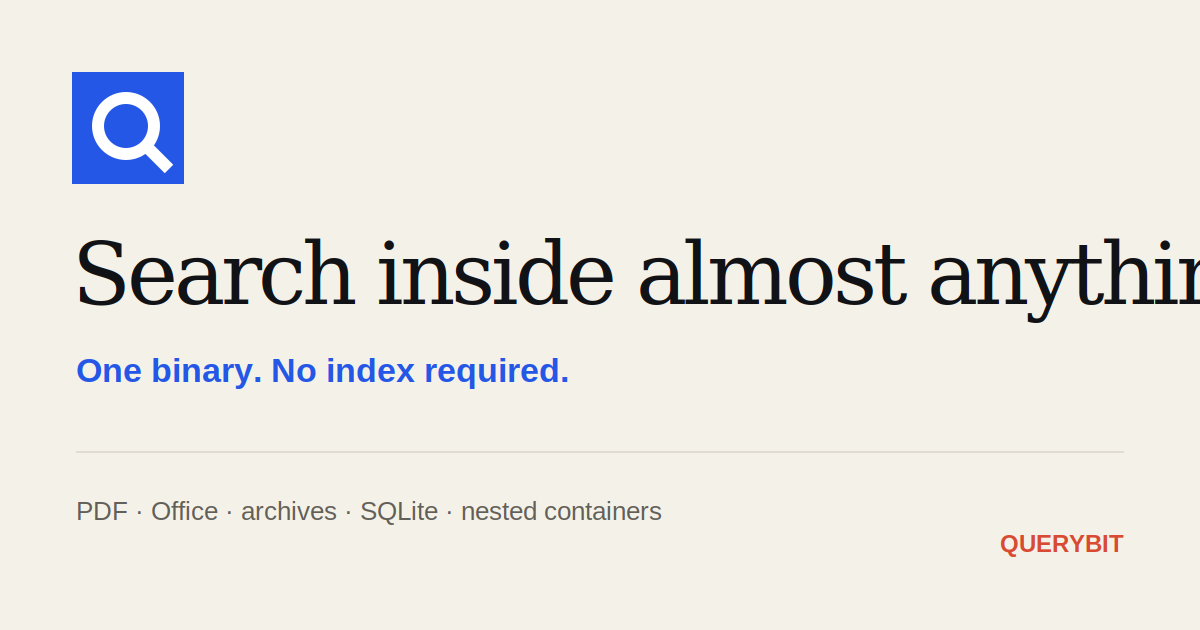
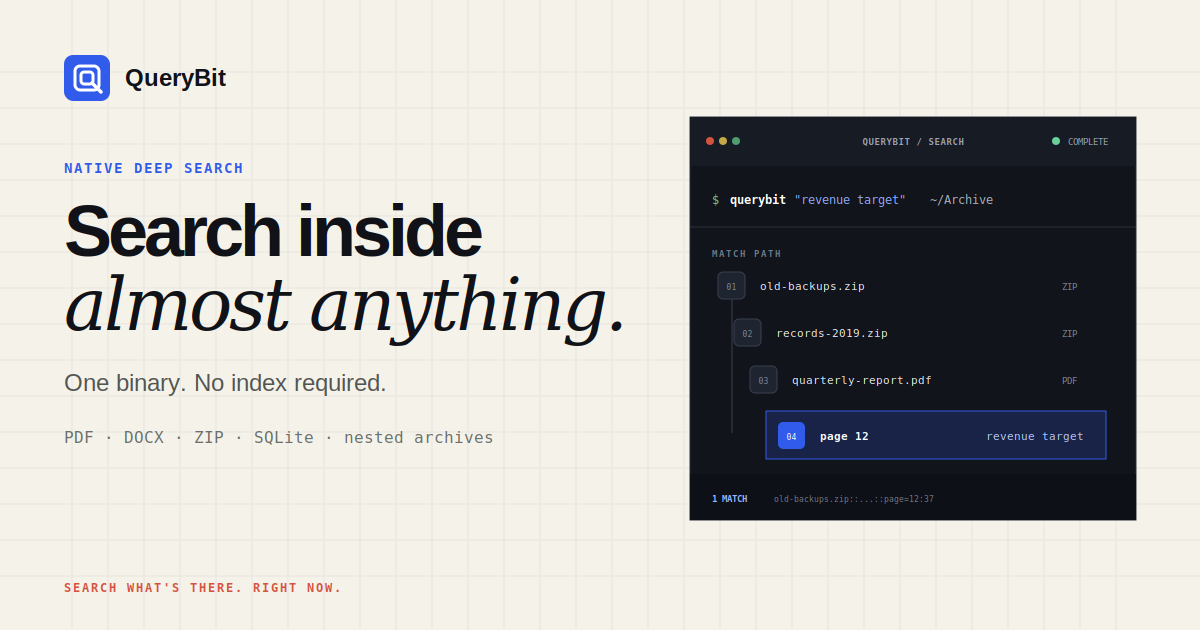
Polish QueryBit launch site

diff --git a/docs/style.css b/docs/style.css
@@ -1,1 +1,1 @@
-:root{color-scheme:light;--paper:#f4f1e8;--ink:#111216;--muted:#625f58;--line:#cec8ba;--blue:#2457e6;--blue2:#173ca6;--red:#d84a31;--white:#fffefa;--max:1180px}*{box-sizing:border-box}html{scroll-behavior:smooth}body{margin:0;background:var(--paper);color:var(--ink);font-family:Inter,ui-sans-serif,-apple-system,BlinkMacSystemFont,"Segoe UI",sans-serif;-webkit-font-smoothing:antialiased}a{color:inherit}.wrap{width:min(calc(100% - 40px),var(--max));margin:auto}header{position:sticky;top:0;z-index:10;border-bottom:1px solid var(--line);background:rgba(244,241,232,.93);backdrop-filter:blur(12px)}nav{min-height:72px;display:flex;align-items:center;justify-content:space-between;gap:24px}.brand{display:flex;align-items:center;gap:12px;text-decoration:none;font-weight:800;letter-spacing:-.02em}.mark{width:34px;height:34px}.links{display:flex;gap:24px;align-items:center;font-size:14px;font-weight:700}.links a{text-decoration:none}.links a:hover{color:var(--blue)}.hero{padding:clamp(70px,10vw,132px) 0 clamp(64px,8vw,108px);border-bottom:1px solid var(--line);overflow:hidden}.hero-grid{display:grid;grid-template-columns:minmax(0,1.05fr) minmax(420px,.95fr);gap:clamp(48px,7vw,92px);align-items:center}.eyebrow,.section-no,.card-label{text-transform:uppercase;letter-spacing:.13em;font-weight:850;font-size:12px}.eyebrow{color:var(--blue);margin-bottom:24px}h1,h2,h3{margin:0}h1{font:500 clamp(54px,7vw,102px)/.93 Georgia,"Times New Roman",serif;letter-spacing:-.055em;max-width:780px}.hero p{max-width:660px;margin:30px 0 0;font-size:clamp(19px,2vw,24px);line-height:1.5;color:#403e39}.actions{display:flex;flex-wrap:wrap;gap:12px;margin-top:34px}.button{display:inline-flex;align-items:center;justify-content:center;min-height:48px;padding:0 20px;border:1px solid var(--ink);text-decoration:none;font-weight:780;font-size:15px;transition:.15s ease}.button.primary{background:var(--blue);border-color:var(--blue);color:white}.button:hover{transform:translateY(-2px)}.button.secondary:hover{background:var(--ink);color:white}.search-card{position:relative;background:var(--white);border:1px solid #bbb5a8;box-shadow:0 28px 70px rgba(30,33,42,.1);padding:clamp(24px,4vw,42px);transform:rotate(1.1deg)}.search-card:before{content:"";position:absolute;inset:10px -12px -12px 12px;border:1px solid var(--blue);z-index:-1}.card-label{color:var(--red);margin-bottom:24px}.path-stack{display:grid;gap:2px;font:500 clamp(13px,1.4vw,16px)/1.4 ui-monospace,SFMono-Regular,Menlo,Consolas,monospace}.path{border-left:2px solid var(--line);padding:10px 0 10px 17px}.path:nth-child(2){margin-left:22px}.path:nth-child(3){margin-left:44px}.path:nth-child(4){margin-left:66px;border-left-color:var(--blue);color:var(--blue2);font-weight:800}.result{margin-top:26px;padding-top:22px;border-top:1px solid var(--line);font:500 12px/1.65 ui-monospace,SFMono-Regular,Menlo,Consolas,monospace;overflow-wrap:anywhere;color:#4e4c47}.result strong{color:var(--ink)}section{padding:clamp(72px,9vw,120px) 0;border-bottom:1px solid var(--line)}.section-head{display:grid;grid-template-columns:.42fr 1fr;gap:40px;margin-bottom:56px}.section-no{color:var(--red);font-family:ui-monospace,SFMono-Regular,monospace}h2{font:500 clamp(36px,4.4vw,64px)/1 Georgia,"Times New Roman",serif;letter-spacing:-.035em;max-width:760px}.intro{margin:20px 0 0;color:var(--muted);max-width:700px;font-size:18px;line-height:1.7}.three{display:grid;grid-template-columns:repeat(3,1fr);border-top:1px solid var(--ink);border-bottom:1px solid var(--ink)}.feature{padding:32px 30px 38px 0}.feature+.feature{border-left:1px solid var(--line);padding-left:30px}.feature h3{font-size:17px;margin-bottom:12px}.feature p{margin:0;color:var(--muted);line-height:1.65;font-size:15px}.num{color:var(--blue);font:800 12px/1 ui-monospace,SFMono-Regular,monospace;margin-bottom:44px}.formats{display:flex;flex-wrap:wrap;gap:8px}.format{border:1px solid var(--line);background:rgba(255,255,255,.34);padding:12px 15px;font:700 13px/1 ui-monospace,SFMono-Regular,monospace}.format.em{border-color:var(--blue);color:var(--blue2);background:#eef2ff}.why{display:grid;grid-template-columns:.72fr 1.28fr;gap:clamp(46px,8vw,112px);align-items:start}.why-callout{font:500 clamp(28px,3.5vw,48px)/1.15 Georgia,"Times New Roman",serif;letter-spacing:-.03em}.why-copy{font-size:17px;line-height:1.78;color:#3f3d39}.why-copy p{margin:0 0 22px}.why-copy strong{color:var(--ink)}.install{display:grid;grid-template-columns:.75fr 1.25fr;gap:32px;background:var(--blue);color:white;padding:clamp(32px,6vw,68px)}.install>*{min-width:0}.install h2{color:white}.install p{margin:18px 0 0;color:#dfe6ff;line-height:1.65}.install-side{align-self:end}.cmd{background:white;color:var(--ink);padding:18px 20px;font:650 13px/1.5 ui-monospace,SFMono-Regular,Menlo,Consolas,monospace;overflow:auto;white-space:nowrap;margin-bottom:12px}.install .button{border-color:white;color:white;margin-top:10px}.install .button:hover{background:white;color:var(--blue)}.fine{font-size:13px!important}footer{padding:34px 0 54px}.footer{display:flex;justify-content:space-between;gap:24px;color:var(--muted);font-size:13px}.footer a{text-underline-offset:3px}@media(max-width:900px){.hero-grid,.section-head,.why,.install{grid-template-columns:1fr}.hero-grid{gap:58px}.search-card{transform:none;max-width:650px}.three{grid-template-columns:1fr}.feature{padding:28px 0}.feature+.feature{border-left:0;border-top:1px solid var(--line);padding-left:0}.num{margin-bottom:20px}}@media(max-width:620px){.wrap{width:min(calc(100% - 28px),var(--max))}nav{min-height:62px}.links a:not(.download){display:none}.hero{padding-top:64px}h1{font-size:clamp(50px,16vw,74px)}.search-card:before{display:none}.path:nth-child(2){margin-left:12px}.path:nth-child(3){margin-left:24px}.path:nth-child(4){margin-left:36px}.cmd{white-space:normal;overflow-wrap:anywhere}.footer{flex-direction:column}}@media(prefers-reduced-motion:reduce){html{scroll-behavior:auto}.button{transition:none}}
+:root{color-scheme:light;--paper:#f5f2ea;--paper2:#ebe6da;--ink:#101217;--muted:#5e615f;--line:#d1ccbf;--line2:#b9b3a6;--blue:#315bea;--blue2:#173aa4;--red:#d4533f;--white:#fffef9;--nav:#f7f4ed;--max:1220px;--sans:Inter,ui-sans-serif,-apple-system,BlinkMacSystemFont,"Segoe UI",sans-serif;--mono:"SFMono-Regular",Consolas,"Liberation Mono",Menlo,monospace}*{box-sizing:border-box}html{scroll-behavior:smooth}body{margin:0;background:var(--paper);color:var(--ink);font-family:var(--sans);-webkit-font-smoothing:antialiased;text-rendering:optimizeLegibility}a{color:inherit}.wrap{width:min(calc(100% - 48px),var(--max));margin:auto}header{position:sticky;top:0;z-index:20;background:rgba(247,244,237,.92);backdrop-filter:blur(18px);border-bottom:1px solid rgba(16,18,23,.11)}nav{height:72px;display:flex;align-items:center;justify-content:space-between;gap:28px}.brand{display:flex;align-items:center;gap:11px;text-decoration:none;font-weight:790;font-size:15px;letter-spacing:-.025em}.mark{width:32px;height:32px;color:var(--blue);filter:drop-shadow(0 5px 10px rgba(49,91,234,.12))}.links{display:flex;align-items:center;gap:28px;font-size:13px;font-weight:680}.links a{text-decoration:none;position:relative}.links a:not(.download):after{content:"";position:absolute;left:0;right:100%;bottom:-5px;height:1px;background:var(--ink);transition:right .18s ease}.links a:not(.download):hover:after{right:0}.links .download{display:inline-flex;align-items:center;gap:7px;border:1px solid var(--ink);padding:10px 13px}.links .download span{font-size:11px;transition:transform .18s ease}.links .download:hover span{transform:translate(2px,-2px)}.hero{position:relative;padding:clamp(86px,10vw,140px) 0 clamp(88px,10vw,132px);overflow:hidden;border-bottom:1px solid var(--line)}.hero:before{content:"";position:absolute;inset:0;background:linear-gradient(rgba(16,18,23,.026) 1px,transparent 1px),linear-gradient(90deg,rgba(16,18,23,.026) 1px,transparent 1px);background-size:36px 36px;mask-image:linear-gradient(to right,transparent 0,#000 45%,#000 100%);pointer-events:none}.hero-grid{position:relative;display:grid;grid-template-columns:minmax(0,.92fr) minmax(520px,1.08fr);gap:clamp(54px,7vw,96px);align-items:center}.eyebrow,.section-no,.trace-label{font:780 11px/1 var(--mono);text-transform:uppercase;letter-spacing:.15em}.eyebrow{display:flex;align-items:center;gap:10px;color:var(--blue);margin-bottom:26px}.eyebrow>span{display:block;width:22px;height:2px;background:var(--blue)}h1,h2,h3,p{margin-top:0}h1{margin-bottom:0;font-size:clamp(58px,6.6vw,94px);line-height:.93;letter-spacing:-.072em;font-weight:760;max-width:680px}h1 em{font-family:"Iowan Old Style","Palatino Linotype",Palatino,"Book Antiqua",Georgia,serif;font-weight:500;font-style:italic;letter-spacing:-.055em}.hero-copy>p{max-width:620px;margin:28px 0 0;color:#464947;font-size:clamp(18px,1.7vw,22px);line-height:1.55;letter-spacing:-.018em}.actions{display:flex;gap:10px;flex-wrap:wrap;margin-top:34px}.button{min-height:48px;padding:0 18px;display:inline-flex;align-items:center;justify-content:center;gap:12px;border:1px solid var(--ink);text-decoration:none;font-size:14px;font-weight:740;letter-spacing:-.01em;transition:transform .16s ease,box-shadow .16s ease,background .16s ease,color .16s ease}.button>span{font-size:12px}.button.primary{background:var(--ink);color:white;box-shadow:0 10px 22px rgba(16,18,23,.1)}.button.primary:hover{transform:translateY(-2px);box-shadow:0 14px 30px rgba(16,18,23,.16)}.button.secondary{background:rgba(255,255,255,.26)}.button.secondary:hover{background:white}.hero-proof{display:flex;gap:14px;flex-wrap:wrap;margin-top:32px;color:#73756f;font:650 10px/1 var(--mono);text-transform:uppercase;letter-spacing:.08em}.hero-proof span{position:relative}.hero-proof span+span:before{content:"·";margin-right:14px;color:#a5a094}.instrument{position:relative;background:#11141b;color:#f6f5f1;border:1px solid #2a2f3a;box-shadow:0 36px 80px rgba(20,24,35,.18),0 2px 0 rgba(255,255,255,.15) inset;overflow:hidden}.instrument:before{content:"";position:absolute;inset:0;background:radial-gradient(circle at 76% 14%,rgba(49,91,234,.20),transparent 31%);pointer-events:none}.instrument-top{position:relative;height:50px;padding:0 18px;display:grid;grid-template-columns:1fr auto 1fr;align-items:center;border-bottom:1px solid #2e3340;background:#171b23}.dots{display:flex;gap:7px}.dots i{width:7px;height:7px;border-radius:50%;background:#4c5361}.dots i:first-child{background:#d4533f}.dots i:nth-child(2){background:#c3a846}.dots i:nth-child(3){background:#4e9c70}.instrument-title{font:620 10px/1 var(--mono);letter-spacing:.08em;color:#9ba3b2;text-transform:uppercase}.status{justify-self:end;display:flex;align-items:center;gap:7px;font:640 10px/1 var(--mono);text-transform:uppercase;letter-spacing:.06em;color:#9ba3b2}.status b{width:7px;height:7px;border-radius:50%;background:#6bd19b;box-shadow:0 0 0 4px rgba(107,209,155,.08)}.command{position:relative;padding:24px 24px 22px;font:500 13px/1.5 var(--mono);color:#aab1bf;border-bottom:1px solid #2b303b;overflow-wrap:anywhere}.command .prompt{color:#6bd19b;margin-right:9px}.command span:nth-child(2){color:#fff;font-weight:700}.command strong{color:#8fabff;font-weight:650}.trace-label{position:relative;color:#6f7888;padding:20px 24px 10px}.trace{position:relative;padding:0 24px 26px}.trace:before{content:"";position:absolute;left:38px;top:18px;bottom:42px;width:1px;background:linear-gradient(#3a4250,#315bea)}.trace-line{position:relative;display:grid;grid-template-columns:36px minmax(0,1fr) auto;gap:12px;align-items:center;min-height:52px;padding:0 14px 0 0;border-bottom:1px solid rgba(255,255,255,.06);font:560 12px/1.3 var(--mono);opacity:0;transform:translateY(5px);animation:trace-in .35s forwards}.trace-line:nth-child(1){animation-delay:.15s}.trace-line:nth-child(2){animation-delay:.28s}.trace-line:nth-child(3){animation-delay:.41s}.trace-line:nth-child(4){animation-delay:.54s}.trace-line .node{position:relative;z-index:2;display:grid;place-items:center;width:28px;height:28px;border-radius:6px;background:#1e2430;border:1px solid #39404d;color:#7f8999;font-size:9px}.trace-line.two{padding-left:16px}.trace-line.three{padding-left:32px}.trace-line.hit{padding-left:48px;border:1px solid rgba(79,118,255,.55);background:linear-gradient(90deg,rgba(49,91,234,.18),rgba(49,91,234,.04));margin-top:9px;min-height:58px}.trace-line.hit .node{background:var(--blue);border-color:#6f90ff;color:white}.trace-line .file{color:#e7e9ee;overflow:hidden;text-overflow:ellipsis;white-space:nowrap}.trace-line .type{color:#7d8695;font-size:9px;border:1px solid #3a414d;padding:5px 6px}.trace-line .match{color:#b9c9ff;font-weight:700;font-size:11px}.result-strip{position:relative;display:grid;grid-template-columns:auto 1fr;gap:14px;align-items:center;background:#0d1016;border-top:1px solid #2b303b;padding:15px 24px;font:500 9.5px/1.45 var(--mono);color:#687181}.result-strip span{color:#9fb4ff;text-transform:uppercase;letter-spacing:.08em}.result-strip code{overflow:hidden;text-overflow:ellipsis;white-space:nowrap;color:#7e8795}@keyframes trace-in{to{opacity:1;transform:none}}section:not(.hero){padding:clamp(86px,9vw,124px) 0;border-bottom:1px solid var(--line)}.section-head{display:grid;grid-template-columns:.38fr 1fr;gap:56px;margin-bottom:60px}.section-head.compact{margin-bottom:46px}.section-no{color:var(--red);padding-top:8px}.section-no span{color:#aaa59a}.section-head h2,.install h2{font-size:clamp(42px,4.7vw,66px);line-height:.98;letter-spacing:-.055em;margin-bottom:0;font-weight:700;max-width:790px}.intro{margin:23px 0 0;color:var(--muted);max-width:700px;font-size:17px;line-height:1.72;letter-spacing:-.012em}.three{display:grid;grid-template-columns:repeat(3,1fr);border-top:1px solid var(--ink)}.feature{display:grid;grid-template-columns:44px 1fr;gap:15px;padding:28px 28px 4px 0;min-height:178px}.feature+.feature{border-left:1px solid var(--line);padding-left:28px}.num{font:740 10px/1 var(--mono);color:var(--blue);padding-top:4px}.feature h3{margin-bottom:10px;font-size:16px;letter-spacing:-.018em}.feature p{margin-bottom:0;color:var(--muted);font-size:14px;line-height:1.65}.formats-section{background:#f0ece2}.format-board{border:1px solid var(--line2);background:rgba(255,255,255,.34);box-shadow:0 18px 46px rgba(24,27,35,.04)}.format-major,.format-minor{display:flex;flex-wrap:wrap}.format-major{border-bottom:1px solid var(--line2)}.format-major span{flex:1 1 16.66%;min-width:130px;padding:25px 18px;border-right:1px solid var(--line);font:760 15px/1 var(--mono);color:var(--blue2);background:rgba(255,255,255,.35);text-align:center}.format-major span:last-child{border-right:0}.format-minor{gap:0}.format-minor span{padding:16px 17px;border-right:1px solid var(--line);border-bottom:1px solid var(--line);font:650 11px/1 var(--mono);color:#4f524f}.origin-section{position:relative;overflow:hidden}.origin-section:after{content:"";position:absolute;width:520px;height:520px;border:1px solid rgba(49,91,234,.13);border-radius:50%;left:-330px;bottom:-250px;box-shadow:0 0 0 56px rgba(49,91,234,.025),0 0 0 112px rgba(49,91,234,.018);pointer-events:none}.why{display:grid;grid-template-columns:.82fr 1.18fr;gap:clamp(60px,9vw,120px);align-items:start}.origin-lead{position:sticky;top:112px}.why-callout{margin-top:32px;font-size:clamp(36px,4.2vw,60px);line-height:1.02;letter-spacing:-.055em;font-weight:710;max-width:470px}.why-callout em{font-family:"Iowan Old Style","Palatino Linotype",Palatino,Georgia,serif;font-weight:500;color:var(--blue);font-style:italic}.why-copy{font-size:16px;line-height:1.8;color:#444744}.why-copy p{margin:0 0 24px}.why-copy code{font:650 .9em var(--mono);background:var(--paper2);padding:2px 5px}.why-copy .pull{margin:36px 0;padding:24px 0 24px 24px;border-left:3px solid var(--blue);font-size:18px;line-height:1.6;color:var(--ink)}.get-section{background:var(--paper)}.install{position:relative;overflow:hidden;display:grid;grid-template-columns:.9fr 1.1fr;gap:clamp(40px,6vw,80px);background:#182044;color:white;padding:clamp(42px,6vw,74px);box-shadow:0 26px 70px rgba(17,24,53,.14)}.install:before{content:"";position:absolute;inset:0;background:linear-gradient(rgba(255,255,255,.035) 1px,transparent 1px),linear-gradient(90deg,rgba(255,255,255,.035) 1px,transparent 1px);background-size:28px 28px;mask-image:linear-gradient(to right,transparent,#000)}.install>*{position:relative;min-width:0}.install .section-no{color:#9fb4ff;padding-top:0;margin-bottom:26px}.install .section-no span{color:#6475bd}.install h2{color:white;max-width:520px}.install-copy p{margin:21px 0 0;color:#bdc5df;max-width:470px;line-height:1.65;font-size:15px}.install-side{align-self:end}.cmd{display:grid;grid-template-columns:18px 1fr;gap:10px;align-items:center;background:#11162f;border:1px solid #303a69;color:white;padding:16px 18px;margin-bottom:10px;font:600 12px/1.45 var(--mono)}.cmd span{color:#6bd19b}.cmd code{overflow-wrap:anywhere}.button.light{margin-top:10px;border-color:#8197f1;color:white;background:var(--blue)}.button.light:hover{transform:translateY(-2px);box-shadow:0 12px 28px rgba(0,0,0,.16)}.fine{font-size:12px!important;color:#8f99bd!important;margin-top:14px!important}footer{padding:34px 0 46px;background:#efebe1}.footer{display:flex;justify-content:space-between;align-items:center;gap:24px;color:#656862;font-size:12px}.footer-brand{display:flex;align-items:center;gap:9px;font-weight:750;color:var(--ink)}.footer-brand span{font-weight:500;color:#777a73}.mini-mark{width:19px;height:19px;color:var(--blue)}.footer>div:last-child{display:flex;gap:18px}.footer a{text-underline-offset:4px;text-decoration-color:#aaa79e}.footer a:hover{text-decoration-color:var(--ink)}@media(max-width:980px){.hero-grid{grid-template-columns:1fr;gap:62px}.hero-copy{max-width:760px}.instrument{max-width:760px}.section-head,.why,.install{grid-template-columns:1fr}.section-head{gap:25px}.origin-lead{position:static}.why{gap:44px}.three{grid-template-columns:1fr}.feature{grid-template-columns:44px 1fr;padding:26px 0;min-height:0}.feature+.feature{border-left:0;border-top:1px solid var(--line);padding-left:0}.format-major span{flex-basis:33.33%}}@media(max-width:640px){.wrap{width:min(calc(100% - 28px),var(--max))}nav{height:62px}.mark{width:28px;height:28px}.links a:not(.download){display:none}.links .download{border:0;padding:8px 0}.hero{padding:68px 0 72px}.hero:before{background-size:28px 28px}h1{font-size:clamp(51px,15vw,72px);line-height:.92}.hero-copy>p{font-size:17px;margin-top:22px}.actions{margin-top:26px}.button{width:auto;min-height:46px;padding:0 15px}.hero-proof{gap:10px;margin-top:24px}.hero-proof span+span:before{margin-right:10px}.instrument-top{height:44px;padding:0 13px}.instrument-title{display:none}.command{padding:18px 15px;font-size:11px}.trace-label{padding:17px 15px 8px}.trace{padding:0 15px 18px}.trace:before{left:29px}.trace-line{grid-template-columns:30px minmax(0,1fr) auto;gap:8px;min-height:47px;padding-right:8px;font-size:10px}.trace-line .node{width:24px;height:24px}.trace-line.two{padding-left:8px}.trace-line.three{padding-left:16px}.trace-line.hit{padding-left:24px}.trace-line .match{font-size:9px}.result-strip{grid-template-columns:1fr;padding:13px 15px}.result-strip code{white-space:normal;overflow-wrap:anywhere}.section-head h2,.install h2{font-size:clamp(38px,11.5vw,52px)}section:not(.hero){padding:72px 0}.section-head{margin-bottom:38px}.section-no{padding-top:0}.intro{font-size:15px;line-height:1.68}.feature{grid-template-columns:36px 1fr}.format-major span{flex-basis:50%;min-width:0;padding:19px 10px;font-size:12px}.format-minor span{font-size:10px;padding:13px 12px}.why-callout{font-size:clamp(34px,10.5vw,48px)}.why-copy{font-size:15px}.why-copy .pull{font-size:16px;margin:28px 0;padding-left:17px}.install{padding:30px 20px;gap:34px}.cmd{font-size:10.5px;padding:14px 12px}.footer{align-items:flex-start;flex-direction:column}.footer>div:last-child{gap:14px}}@media(prefers-reduced-motion:reduce){html{scroll-behavior:auto}.button,.links a:after,.links .download span{transition:none}.trace-line{animation:none;opacity:1;transform:none}}

diff --git a/docs/index.html b/docs/index.html
@@ -1,1 +1,140 @@
-<!doctype html><html lang="en"><head><meta charset="utf-8"><meta name="viewport" content="width=device-width,initial-scale=1"><meta name="theme-color" content="#f4f1e8"><meta name="description" content="QueryBit searches inside PDFs, Office documents, archives, SQLite databases and more — one binary, no index required."><meta property="og:title" content="QueryBit — Search inside almost anything"><meta property="og:description" content="One binary. No index. Search PDFs, Office docs, archives, SQLite and nested containers directly."><meta property="og:type" content="website"><meta property="og:url" content="https://jddev273.github.io/querybit/"><meta property="og:image" content="https://jddev273.github.io/querybit/social.png"><meta name="twitter:card" content="summary_large_image"><title>QueryBit — Search inside almost anything</title><link rel="icon" href="favicon.svg" type="image/svg+xml"><link rel="stylesheet" href="style.css"></head><body><header><div class="wrap"><nav aria-label="Primary navigation"><a class="brand" href="#top"><svg class="mark" viewBox="0 0 40 40" aria-hidden="true"><rect x="1" y="1" width="38" height="38" fill="#2457e6"/><circle cx="19" cy="19" r="9" fill="none" stroke="#fff" stroke-width="4"/><path d="M24 24 32 32" stroke="#fff" stroke-width="4"/></svg><span>QueryBit</span></a><div class="links"><a href="#formats">Formats</a><a href="#why">Why QueryBit</a><a href="https://github.com/jddev273/querybit">GitHub</a><a class="download" href="https://github.com/jddev273/querybit/releases/latest">Download ↗</a></div></nav></div></header><main id="top"><div class="hero"><div class="wrap hero-grid"><div><div class="eyebrow">Native deep search</div><h1>Search inside almost anything.</h1><p>Documents, archives, databases and nested files — with one executable and no index to build first.</p><div class="actions"><a class="button primary" href="https://github.com/jddev273/querybit/releases/latest">Download QueryBit</a><a class="button secondary" href="https://github.com/jddev273/querybit">View source</a></div></div><div class="search-card" aria-label="Example nested archive search result"><div class="card-label">One search · no unpacking</div><div class="path-stack"><div class="path">old-backups.zip</div><div class="path">records-2019.zip</div><div class="path">quarterly-report.pdf</div><div class="path">page 12 · revenue target</div></div><div class="result"><strong>querybit 'revenue target' ~/Archive</strong><br>old-backups.zip::records-2019.zip::quarterly-report.pdf::page=12:37:revenue target</div></div></div></div><section><div class="wrap"><div class="section-head"><div class="section-no">01 / The point</div><div><h2>A search tool for the stuff you don't search every day.</h2><p class="intro">QueryBit is for the moment when you know something is somewhere in an old folder, archive or document pile. You want to search it now, not build an index or install a stack of converters.</p></div></div><div class="three"><article class="feature"><div class="num">01</div><h3>No index</h3><p>Point QueryBit at a file, directory or archive and search what is there right now. Nothing has to run in the background.</p></article><article class="feature"><div class="num">02</div><h3>One executable</h3><p>Format support is built in. Copy QueryBit onto a machine and use it without assembling a separate document-search toolchain.</p></article><article class="feature"><div class="num">03</div><h3>No silent “no match”</h3><p>If a corrupt file, parser failure or safety limit makes a search incomplete, QueryBit reports that instead of quietly pretending nothing matched.</p></article></div></div></section><section id="formats"><div class="wrap"><div class="section-head"><div class="section-no">02 / Formats</div><div><h2>Mixed folders are the normal case.</h2><p class="intro">Search ordinary text and structured files in the same pass, including archives inside archives. Results preserve where the match came from.</p></div></div><div class="formats"><span class="format em">PDF</span><span class="format em">DOCX</span><span class="format em">XLSX</span><span class="format em">PPTX</span><span class="format">SQLite</span><span class="format">EPUB</span><span class="format">ZIP</span><span class="format">TAR</span><span class="format">tar.gz / tgz</span><span class="format">tar.xz / txz</span><span class="format">tar.zst / tzst</span><span class="format">gzip</span><span class="format">xz</span><span class="format">zstd</span><span class="format">UTF-8 text</span><span class="format">UTF-16 text</span><span class="format">nested archives</span></div></div></section><section id="why"><div class="wrap why"><div><div class="section-no" style="margin-bottom:28px">03 / Origin</div><div class="why-callout">QueryBit grew out of a problem I kept running into.</div></div><div class="why-copy"><p>I’d be trying to find something from years ago, know it was somewhere in an old archive, and have no idea which ZIP it was in. Usually that meant unpacking a bunch of archives just to search the PDFs and documents inside them.</p><p>On Windows I normally use Everything; on Linux, I reach for <code>grep</code> or <code>rg</code>. <code>rga</code> (ripgrep-all) goes further into file formats. Depending on what you want to search, that can mean installing and maintaining extra supporting tools. I use multiple machines and operating systems, and I didn’t want to set all of that up everywhere for something I only need occasionally.</p><p><strong>What I wanted was simpler: one executable I could copy onto almost any machine. I could point it at a directory or archive, search immediately, and then forget about it until I needed it again.</strong></p><p>No index to build. No background service. No need to unpack everything first.</p></div></div></section><section id="install"><div class="wrap"><div class="install"><div><div class="section-no" style="color:#fff;opacity:.75;margin-bottom:28px">04 / Get it</div><h2>Keep it around. Run it when you need it.</h2><p>QueryBit ships as native binaries for Windows x86-64, Linux x86-64, macOS Apple Silicon and macOS Intel.</p></div><div class="install-side"><div class="cmd">querybit -i -C 2 'needle' ~/Archive</div><div class="cmd">querybit -F 'invoice 2026' old-backups.zip</div><a class="button" href="https://github.com/jddev273/querybit/releases/latest">Download the latest release ↗</a><p class="fine">No installer required. V1 binaries are unsigned, so macOS Gatekeeper or Windows SmartScreen may show the usual first-run warning.</p></div></div></div></section></main><footer><div class="wrap footer"><div>QueryBit · MIT or Apache-2.0</div><div><a href="https://github.com/jddev273/querybit">Source</a> · <a href="https://github.com/jddev273/querybit/releases">Releases</a> · <a href="https://github.com/jddev273/querybit/blob/main/SECURITY.md">Security</a></div></div></footer></body></html>
+<!doctype html>
+<html lang="en">
+<head>
+<meta charset="utf-8">
+<meta name="viewport" content="width=device-width,initial-scale=1">
+<meta name="theme-color" content="#f5f2ea">
+<meta name="description" content="QueryBit searches inside PDFs, Office documents, archives, SQLite databases and more — one binary, no index required.">
+<meta property="og:title" content="QueryBit — Search inside almost anything">
+<meta property="og:description" content="One binary. No index. Search PDFs, Office docs, archives, SQLite and nested containers directly.">
+<meta property="og:type" content="website">
+<meta property="og:url" content="https://jddev273.github.io/querybit/">
+<meta property="og:image" content="https://jddev273.github.io/querybit/social.png">
+<meta name="twitter:card" content="summary_large_image">
+<title>QueryBit — Search inside almost anything</title>
+<link rel="icon" href="favicon.svg" type="image/svg+xml">
+<link rel="stylesheet" href="style.css">
+</head>
+<body>
+<header>
+  <div class="wrap">
+    <nav aria-label="Primary navigation">
+      <a class="brand" href="#top" aria-label="QueryBit home">
+        <svg class="mark" viewBox="0 0 40 40" aria-hidden="true">
+          <rect x="2" y="2" width="36" height="36" rx="7" fill="currentColor"/>
+          <rect x="10" y="10" width="20" height="20" rx="4" fill="none" stroke="white" stroke-width="2.4"/>
+          <rect x="15" y="15" width="10" height="10" rx="2" fill="none" stroke="white" stroke-width="2.4"/>
+          <path d="M24 24 31 31" stroke="white" stroke-width="2.8" stroke-linecap="round"/>
+        </svg>
+        <span>QueryBit</span>
+      </a>
+      <div class="links">
+        <a href="#formats">Formats</a>
+        <a href="#why">Why QueryBit</a>
+        <a href="https://github.com/jddev273/querybit">GitHub</a>
+        <a class="download" href="https://github.com/jddev273/querybit/releases/latest">Download <span>↗</span></a>
+      </div>
+    </nav>
+  </div>
+</header>
+
+<main id="top">
+  <section class="hero">
+    <div class="wrap hero-grid">
+      <div class="hero-copy">
+        <div class="eyebrow"><span></span> Native deep search</div>
+        <h1>Search inside <em>almost anything.</em></h1>
+        <p>Documents, archives, databases and nested files — with one executable and no index to build first.</p>
+        <div class="actions">
+          <a class="button primary" href="https://github.com/jddev273/querybit/releases/latest">Download QueryBit <span>↓</span></a>
+          <a class="button secondary" href="https://github.com/jddev273/querybit">View source <span>↗</span></a>
+        </div>
+        <div class="hero-proof"><span>PDF</span><span>DOCX</span><span>ZIP</span><span>SQLite</span><span>+ nested archives</span></div>
+      </div>
+
+      <div class="instrument" aria-label="Example QueryBit search through nested files">
+        <div class="instrument-top">
+          <div class="dots"><i></i><i></i><i></i></div>
+          <div class="instrument-title">querybit / search</div>
+          <div class="status"><b></b> complete</div>
+        </div>
+        <div class="command"><span class="prompt">$</span><span>querybit</span> <strong>"revenue target"</strong> ~/Archive</div>
+        <div class="trace-label">MATCH PATH</div>
+        <div class="trace">
+          <div class="trace-line one"><span class="node">01</span><span class="file">old-backups.zip</span><span class="type">ZIP</span></div>
+          <div class="trace-line two"><span class="node">02</span><span class="file">records-2019.zip</span><span class="type">ZIP</span></div>
+          <div class="trace-line three"><span class="node">03</span><span class="file">quarterly-report.pdf</span><span class="type">PDF</span></div>
+          <div class="trace-line hit"><span class="node">04</span><span class="file">page 12</span><span class="match">revenue target</span></div>
+        </div>
+        <div class="result-strip"><span>1 match</span><code>old-backups.zip::records-2019.zip::quarterly-report.pdf::page=12:37</code></div>
+      </div>
+    </div>
+  </section>
+
+  <section class="point">
+    <div class="wrap">
+      <div class="section-head">
+        <div class="section-no">01 <span>/</span> The point</div>
+        <div>
+          <h2>A search tool for the stuff you don't search every day.</h2>
+          <p class="intro">QueryBit is for the moment when you know something is somewhere in an old folder, archive or document pile. You want to search it now, not build an index or install a stack of converters.</p>
+        </div>
+      </div>
+      <div class="three">
+        <article class="feature"><div class="num">01</div><div><h3>No index</h3><p>Point QueryBit at a file, directory or archive and search what is there right now. Nothing has to run in the background.</p></div></article>
+        <article class="feature"><div class="num">02</div><div><h3>One executable</h3><p>Format support is built in. Copy QueryBit onto a machine and use it without assembling a separate document-search toolchain.</p></div></article>
+        <article class="feature"><div class="num">03</div><div><h3>No silent “no match”</h3><p>If a corrupt file, parser failure or safety limit makes a search incomplete, QueryBit reports that instead of quietly pretending nothing matched.</p></div></article>
+      </div>
+    </div>
+  </section>
+
+  <section id="formats" class="formats-section">
+    <div class="wrap">
+      <div class="section-head compact">
+        <div class="section-no">02 <span>/</span> Formats</div>
+        <div><h2>Mixed folders are the normal case.</h2><p class="intro">Search ordinary text and structured files in the same pass, including archives inside archives. Results preserve where the match came from.</p></div>
+      </div>
+      <div class="format-board">
+        <div class="format-major"><span>PDF</span><span>DOCX</span><span>XLSX</span><span>PPTX</span><span>SQLite</span><span>EPUB</span></div>
+        <div class="format-minor"><span>ZIP</span><span>TAR</span><span>tar.gz / tgz</span><span>tar.xz / txz</span><span>tar.zst / tzst</span><span>gzip</span><span>xz</span><span>zstd</span><span>UTF-8 text</span><span>UTF-16 text</span><span>nested archives</span></div>
+      </div>
+    </div>
+  </section>
+
+  <section id="why" class="origin-section">
+    <div class="wrap why">
+      <div class="origin-lead">
+        <div class="section-no">03 <span>/</span> Origin</div>
+        <div class="why-callout">Built for the file you know exists — <em>somewhere.</em></div>
+      </div>
+      <div class="why-copy">
+        <p>I’d be trying to find something from years ago, know it was somewhere in an old archive, and have no idea which ZIP it was in. Usually that meant unpacking a bunch of archives just to search the PDFs and documents inside them.</p>
+        <p>On Windows I normally use Everything; on Linux, I reach for <code>grep</code>. Other search tools cover parts of this workflow, but I use multiple machines and operating systems and didn’t want to maintain a collection of supporting tools for something I only need occasionally.</p>
+        <p class="pull"><strong>What I wanted was simpler: one executable I could copy onto almost any machine, point at a directory or archive, search immediately, and then forget about until I needed it again.</strong></p>
+        <p>No index to build. No background service. No need to unpack everything first.</p>
+      </div>
+    </div>
+  </section>
+
+  <section id="install" class="get-section">
+    <div class="wrap">
+      <div class="install">
+        <div class="install-copy">
+          <div class="section-no">04 <span>/</span> Get it</div>
+          <h2>Keep it around.<br>Run it when you need it.</h2>
+          <p>Native binaries for Windows x86-64, Linux x86-64, macOS Apple Silicon and macOS Intel.</p>
+        </div>
+        <div class="install-side">
+          <div class="cmd"><span>$</span><code>querybit -i -C 2 'needle' ~/Archive</code></div>
+          <div class="cmd"><span>$</span><code>querybit -F 'invoice 2026' old-backups.zip</code></div>
+          <a class="button light" href="https://github.com/jddev273/querybit/releases/latest">Download the latest release <span>↗</span></a>
+          <p class="fine">No installer required. V1 binaries are unsigned, so macOS Gatekeeper or Windows SmartScreen may show the usual first-run warning.</p>
+        </div>
+      </div>
+    </div>
+  </section>
+</main>
+
+<footer><div class="wrap footer"><div class="footer-brand"><svg class="mini-mark" viewBox="0 0 20 20" aria-hidden="true"><rect x="1" y="1" width="18" height="18" rx="4" fill="currentColor"/><rect x="6" y="6" width="8" height="8" rx="2" fill="none" stroke="white" stroke-width="1.5"/><path d="M12 12 16 16" stroke="white" stroke-width="1.8" stroke-linecap="round"/></svg>QueryBit <span>· MIT or Apache-2.0</span></div><div><a href="https://github.com/jddev273/querybit">Source</a><a href="https://github.com/jddev273/querybit/releases">Releases</a><a href="https://github.com/jddev273/querybit/blob/main/SECURITY.md">Security</a></div></div></footer>
+</body>
+</html>
